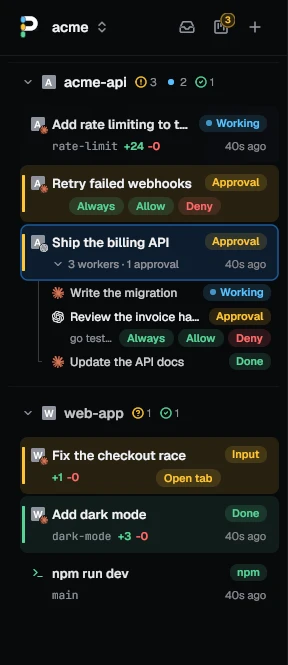
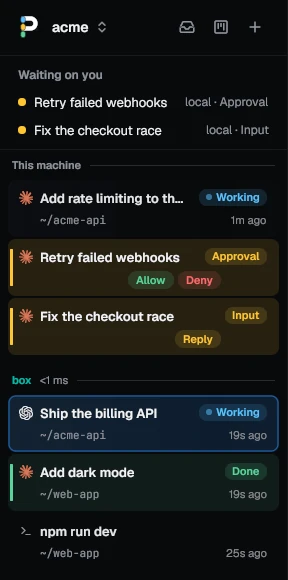
Show a shared session in the hero and sidebar pictures
The first image sold one machine's sidebar while the window now splits a
shared session by machine, so the panes slice and the sidebar picture
showed a layout new users would no longer see with a host configured.

The panes view was taken at 600x800 instead of 1280x800 so the focused
box pane, its ring and its host tag fit inside the slice the diagonal
cut keeps; at 1280 the tag sits far right of the cut. Only that slice
was replaced, through the same polygon the cut follows, so the board
and review slices stay as they were. The data is fictional, run on two
temp daemons joined through the test suite's fake ssh.

diff --git a/docs/index.html b/docs/index.html
@@ -199,7 +199,7 @@ footer a { color: var(--muted); }
   </div>
 
   <div class="shot hero-shot">
-    <img src="media/pitwall-hero.webp" width="1600" height="800" alt="The pitwall window cut into three views. Left, the panes: a sidebar of acme-api and web-app tabs with Approval, Working, Input and Done states and Always, Allow and Deny buttons, beside a Codex orchestrator splitting work into three workers. Middle, the board: Needs you holds an approval with its full npm run migrate command and Allow and Deny, two questions with their answer buttons and a plan ready, beside Failed. Right, the review view: a diff of rateLimit.ts with two pending comments and Second opinion and Create pull request buttons">
+    <img src="media/pitwall-hero.webp" width="1600" height="800" alt="The pitwall window cut into three views. Left, the panes of a shared session: this machine's tabs, Working, an Approval with Allow and Deny and an Input with Reply, then a box divider over box's tabs, the focused one a Codex agent shipping the billing API in a pane ringed in box's color with a box tag. Middle, the board: Needs you holds an approval with its full npm run migrate command and Allow and Deny, two questions with their answer buttons and a plan ready, beside Failed. Right, the review view: a diff of rateLimit.ts with two pending comments and Second opinion and Create pull request buttons">
   </div>
 </div>
 
@@ -261,7 +261,7 @@ scoop install pitwall</code></pre>
           </div>
         </div>
         <div class="media">
-          <div class="shot tall"><img src="media/sidebar.webp" width="288" height="665" loading="lazy" alt="The sidebar: an acme-api group with a Working tab, an Approval tab with Always, Allow and Deny, and an orchestrator with three workers one per row, then a web-app group with an Input tab, a Done tab and a running dev server"></div>
+          <div class="shot tall"><img src="media/sidebar.webp" width="288" height="580" loading="lazy" alt="The sidebar of a shared session: Waiting on you lists two tabs, a This machine divider sits over a Working tab, an Approval with Allow and Deny and an Input with Reply, and a box divider with its latency sits over box's Working Codex tab, a Done tab and npm run dev"></div>
         </div>
       </div>
 

diff --git a/README.md b/README.md
@@ -14,7 +14,7 @@ tab, notifies you, and takes you there with one key.
   Oh My Pi.
 - Installs with one command.
 
-<img src="docs/media/pitwall-hero.webp" alt="The pitwall window cut into three views. Left, the panes: a sidebar of acme-api and web-app tabs with Approval, Working, Input and Done states and Always, Allow and Deny buttons, beside a Codex orchestrator splitting work into three workers. Middle, the board: Needs you holds an approval with its full npm run migrate command and Allow and Deny, two questions with their answer buttons and a plan ready, beside Failed. Right, the review view: a diff of rateLimit.ts with two pending comments and Second opinion and Create pull request buttons" width="800">
+<img src="docs/media/pitwall-hero.webp" alt="The pitwall window cut into three views. Left, the panes of a shared session: this machine's tabs, Working, an Approval with Allow and Deny and an Input with Reply, then a box divider over box's tabs, the focused one a Codex agent shipping the billing API in a pane ringed in box's color with a box tag. Middle, the board: Needs you holds an approval with its full npm run migrate command and Allow and Deny, two questions with their answer buttons and a plan ready, beside Failed. Right, the review view: a diff of rateLimit.ts with two pending comments and Second opinion and Create pull request buttons" width="800">
 
 ## Install
 
@@ -73,7 +73,7 @@ are Cmd+U, Cmd+Shift+Y, Cmd+Shift+N, Cmd+Shift+R and Cmd+T.
 
 ### See every agent at a glance
 
-<img src="docs/media/sidebar.webp" alt="The sidebar: an acme-api group with a Working tab, an Approval tab with Always, Allow and Deny, and an orchestrator with three workers one per row, then a web-app group with an Input tab, a Done tab and a running dev server" width="240" align="right">
+<img src="docs/media/sidebar.webp" alt="The sidebar of a shared session: Waiting on you lists two tabs, a This machine divider sits over a Working tab, an Approval with Allow and Deny and an Input with Reply, and a box divider with its latency sits over box's Working Codex tab, a Done tab and npm run dev" width="240" align="right">
 
 **Every tab's row says what its agent is doing: Working, Input, Approval,
 Plan, Done or Error.** A tab with three agents in split panes lists each on

diff --git a/CHANGELOG.md b/CHANGELOG.md
@@ -23,6 +23,7 @@ pushes the tag once, which starts the release build. Either step takes
 - A worker with a pull request open has its own card in the board's PR open column instead of folding into its orchestrator, which could sit in Done.
 - The board shows the window's session by default; Scope, All sessions shows every session's tabs.
 - A shared session's tabs sit together by machine in the sidebar's tree: this machine's first, then each host's in `[[hosts]]` order, below a line that names the machine with its latency, or "offline, retry in 7s" in red with ssh's error on hover. The row of machines under the header is gone, in the inbox too, and so is the host chip on each row and group header in the tree; a click or right-click on a host's line picks its color. The inbox, Waiting on you and the board still name a tab's host. Hover a line for a + that opens a tab on that machine without asking which. A drag stays within its machine, and Alt navigation and the tab digits follow the new order. `[appearance] host_sections = "sections"`, or Settings, Appearance, Machines, turns the lines into headers that fold their tabs away and count the tabs that need you while folded. See docs/remote.md, Shared sessions.
+- The README and site's first image and the sidebar picture show a shared session: this machine's tabs, then box's below its divider, with a box pane focused.
 
 ## v0.2.0
 
